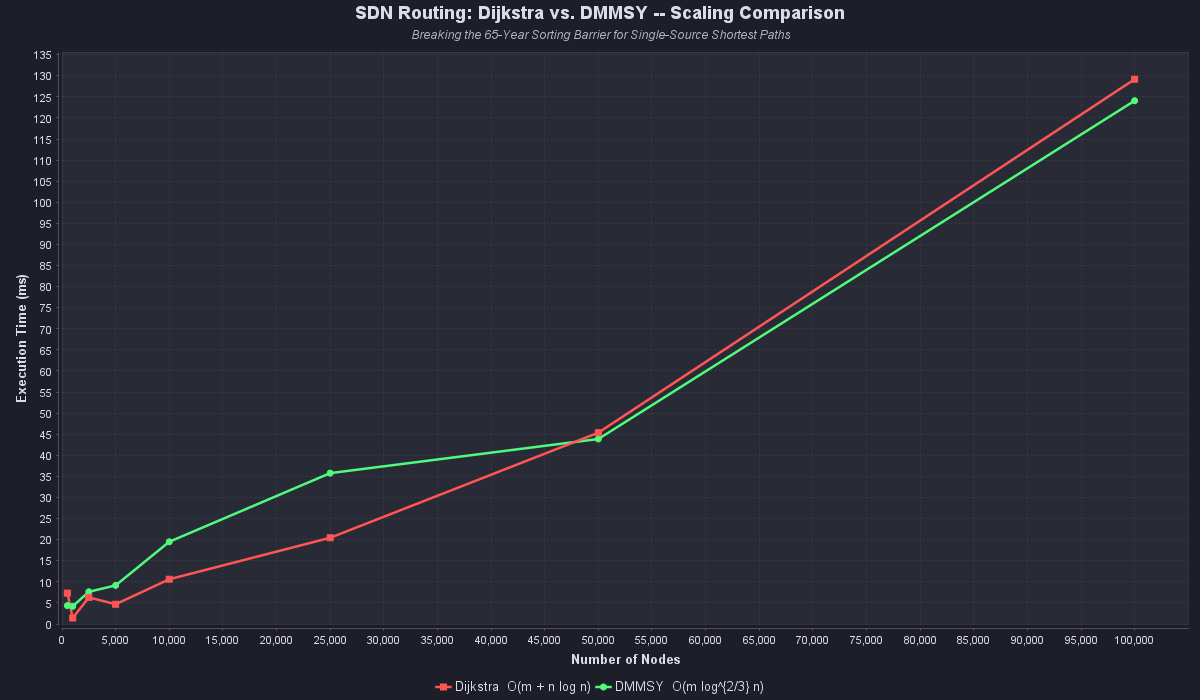
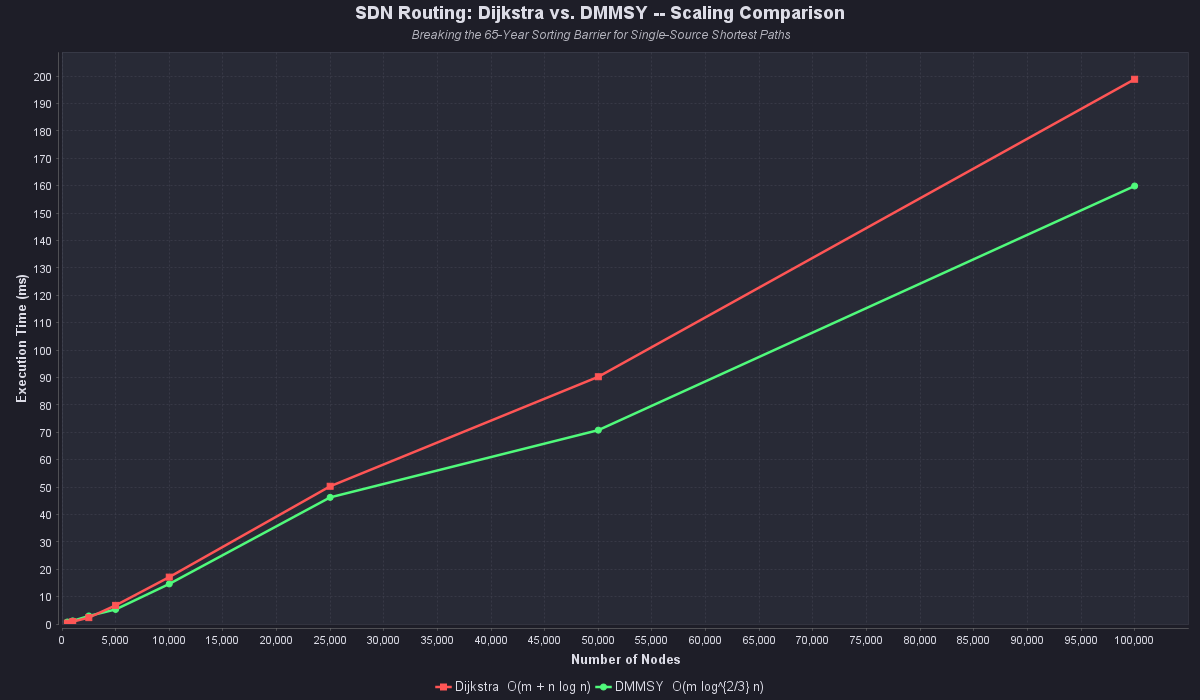
MOD | re run fix

diff --git a/frontend/app.js b/frontend/app.js
@@ -26,7 +26,7 @@ document.addEventListener('DOMContentLoaded', () => {
 //  SIMULATION FLOW
 // ═══════════════════════════════════════════════════════════════════
 
-async function startSimulation() {
+async function startSimulation(fresh = false) {
     showLoading();
     updateLoadingStatus('Connecting to simulation server...');
     setLoadingBar(5);
@@ -49,7 +49,10 @@ async function startSimulation() {
         updateLoadingStatus('Running Phase 2: CloudSim Plus Simulation...');
         setLoadingBar(35);
 
-        const response = await fetch(`${API_BASE}/api/run`);
+        const endpoint = fresh
+            ? `${API_BASE}/api/run?fresh=true`
+            : `${API_BASE}/api/run`;
+        const response = await fetch(endpoint);
         if (!response.ok) throw new Error(`Server returned ${response.status}`);
 
         setPhase(2, 'done');
@@ -92,7 +95,7 @@ async function rerunSimulation() {
     // Reset cache on server by calling with force
     simData = null;
     $('#dashboard').classList.add('hidden');
-    startSimulation();
+    startSimulation(true);
 }
 
 // ═══════════════════════════════════════════════════════════════════

diff --git a/src/main/java/com/sdnsim/api/SimulationServer.java b/src/main/java/com/sdnsim/api/SimulationServer.java
@@ -49,8 +49,7 @@ public final class SimulationServer {
     private static final double SIM_VOLATILITY_PCT = 0.25;
     private static final String OUTPUT_DIR = "output";
 
-    // Cached results
-    private static volatile String cachedJson = null;
+    // State
     private static volatile boolean running = false;
 
     private SimulationServer() {}
@@ -76,8 +75,7 @@ public final class SimulationServer {
     }
 
     private static void handleStatus(HttpExchange exchange) throws IOException {
-        String json = "{\"status\":\"ready\",\"running\":" + running +
-                ",\"cached\":" + (cachedJson != null) + "}";
+        String json = "{\"status\":\"ready\",\"running\":" + running + "}";
         sendJson(exchange, 200, json);
     }
 
@@ -87,16 +85,9 @@ public final class SimulationServer {
             return;
         }
 
-        // Return cached results if available
-        if (cachedJson != null) {
-            sendJson(exchange, 200, cachedJson);
-            return;
-        }
-
         running = true;
         try {
             String json = runFullSimulation();
-            cachedJson = json;
             sendJson(exchange, 200, json);
         } catch (Exception e) {
             sendJson(exchange, 500, "{\"error\":\"" + escapeJson(e.getMessage()) + "\"}");
